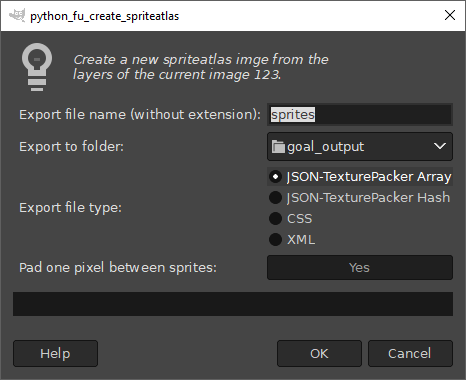
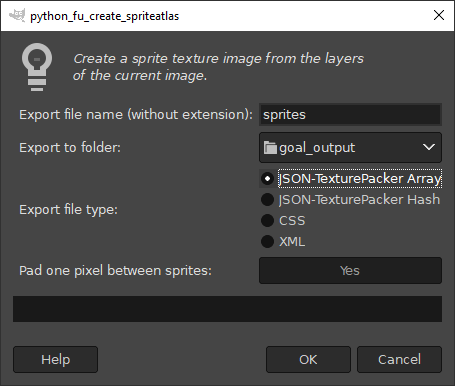
fixed typo

diff --git a/GIMP 2/lib/gimp/2.0/plug-ins/create_spriteatlas.py b/GIMP 2/lib/gimp/2.0/plug-ins/create_spriteatlas.py
@@ -413,8 +413,8 @@ def create_spriteatlas(image, filetag, foldername, outputtype, padding):
 # Register the plugin with Gimp so it appears in the filters menu
 register(
     "python_fu_create_spriteatlas",
-    "Create a new spriteatlas imge from the layers of the current image.",
-    "Create a new spriteatlas imge from the layers of the current image.",
+    "Create a sprite texture image from the layers of the current image.",
+    "Create a sprite texture image from the layers of the current image.",
     "Bas de Reuver",
     "Bas de Reuver",
     "2022",
